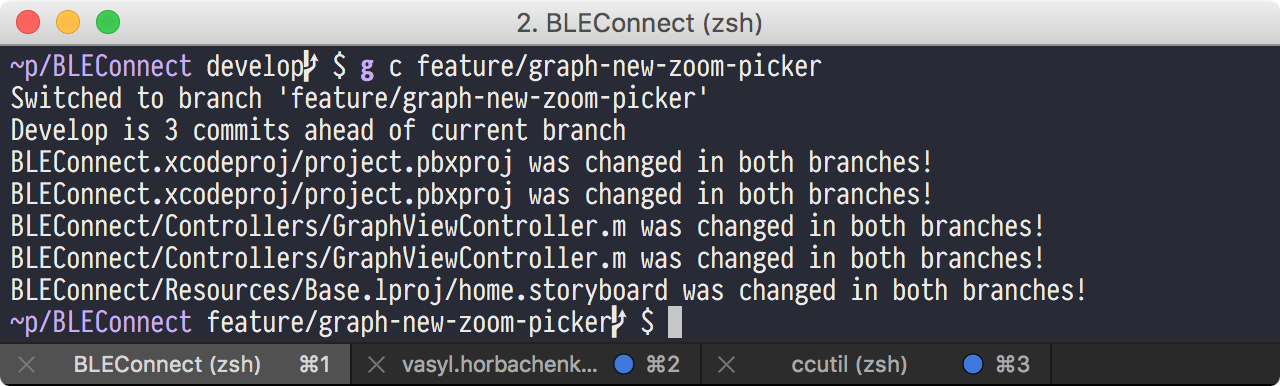
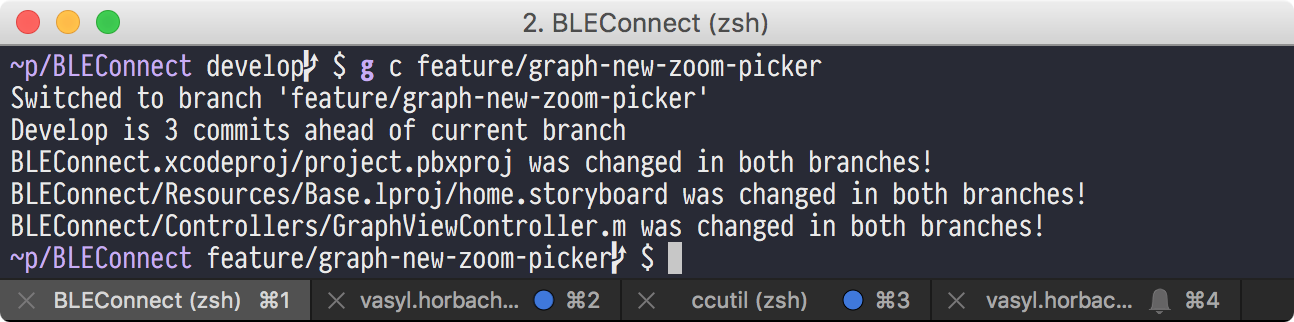
[beta] fixes in verbose, new screenshots, group and feature set on new reviews

diff --git a/ccutil/githelper.py b/ccutil/githelper.py
@@ -7,11 +7,12 @@ COMMIT_SEARCH_LIMIT = 50
 r = None
 
 def commit_change_list(commit):
-    result = []
+    result = {}
     output = subprocess.check_output(["git", "diff-tree", "--no-commit-id", "-r", str(commit), ])
     for line in output.splitlines():
         words = line.split()
-        result.append([words[-1], words[3]])
+        result[words[-1]] = words[3]
+
     return result
 
 def open_repo(path):
@@ -26,7 +27,7 @@ def feature_base(at_ref):
             return commit
 
 def feature_files_changed(ref):
-    result = []
+    result = {}
     base = feature_base(ref)
 
     if not base:
@@ -38,7 +39,7 @@ def feature_files_changed(ref):
             break
         else:
             verbose("Adding changes from {}", c)
-            result += commit_change_list(c)
+            result.update(commit_change_list(c))
 
     return result
 
@@ -50,23 +51,28 @@ def features_conflicts(ref1, ref2):
 
     if ref2 == r.branches["develop"]:
         ref1_base = feature_base(ref1)
-        ref2_changes = []
+        ref2_changes = {}
         for c in r.iter_commits(r.branches["develop"], max_count=COMMIT_SEARCH_LIMIT):
             if c == ref1_base:
                 break
             else:
                 verbose("Adding changes from {}", c)
-                ref2_changes += commit_change_list(c)
+                ref2_changes.update(commit_change_list(c))
     else:
         ref2_changes = feature_files_changed(ref2)
 
+    for path, hash in ref1_changes.items():
+        verbose("{:<10} changed {:<100} {:>6}", str(ref1)[:10], path, hash[:6])
+    for path, hash in ref2_changes.items():
+        verbose("{:<10} changed {:<100} {:>6}", str(ref2)[:10], path, hash[:6])
+
     conflicts = []
-    for (path1, hash1) in ref1_changes:
-        verbose("{:<6} changed {:<100} {:>6}", str(ref1)[:6], path1, hash1[:6])
-        for (path2, hash2) in ref2_changes:
-            verbose("{:<6} changed {:<100} {:>6}", str(ref2)[:6], path2, hash2[:6])
-            if path1 == path2 and hash1 != hash2:
+    for path1, hash1 in ref1_changes.items():
+        for path2, hash2 in ref2_changes.items():
+            if path1 == path2 and hash1 != hash2 and path1 not in conflicts:
                 conflicts.append(path1)
+            elif path1 == path2:
+                message("Path {} was changed in both branches with resulting in equal hashes!", path1)
 
     return conflicts
 

diff --git a/ccutil/utils.py b/ccutil/utils.py
@@ -21,6 +21,7 @@ update, up - ccollab helper:
     parser.add_argument("args", nargs="*", default=None)
     parser.add_argument("-b", default=None, help="branch to check conflicts against (instead of develop)")
     parser.add_argument("--browser", default=None, help="Browser application to use with CC")
+    parser.add_argument("--group", default=None, help="GUID of CC group to use")
     parser.add_argument("--reverts", default=False, action="store_true", help="Add reverted files to CC (used in manual variant of update)")
     parser.add_argument("--always-open-browser", action="store_true", default=False, help="Open browser even on updating existing CC")
     parser.add_argument("-a", action="store_true", default=False, help="append only mode - quietly fail when there's no review associated with the branch")
@@ -43,5 +44,5 @@ def output(msg, *_args, **_kwargs):
 
 def open_url_in_browser(url):
     if args.browser:
-        utils.message("Opening {}", url)
+        message("Opening {}", url)
         os.system("open -a {} {}".format(args.browser, url))

diff --git a/ccutil.py b/ccutil.py
@@ -55,7 +55,7 @@ def op_update():
             if args.reverts:
                 files = files + githelper.reverts_list()
         else:
-            files = [os.path.exists(path) and path or "" for (path, _) in githelper.feature_files_changed(r.head)]
+            files = [os.path.exists(path) and path or "" for path, _ in githelper.feature_files_changed(r.head).items()]
 
         id = db.get(r.head.ref)
         if args.a and not id:
@@ -65,7 +65,7 @@ def op_update():
         if not id:
             id = str(ccollab.create_new_review(files))
             db.set(r.head.ref, id)
-            ccollab.update_review_title(id, r.head.commit.message.strip())
+            ccollab.update_review(id, r.head.commit.message.strip(), args.group, "git: {}".format(str(r.head.ref)))
             did_create = True
         else:
             ccollab.append_to_review(id, files)

diff --git a/ccutil/ccollab.py b/ccutil/ccollab.py
@@ -52,5 +52,12 @@ def create_new_review(files):
 def append_to_review(id, files):
     call_ccollab("addchanges", id, *files)
 
-def update_review_title(id, title):
-    call_ccollab("admin", "review", "edit", id, "--title", title)
+def update_review(id, title, group, overview):
+    args = ["admin", "review", "edit", id,
+            "--title", title,
+            "--custom-field", "Feature=Unknown",
+            "--custom-field", "Overview={}".format(overview), ]
+    if group:
+        args += ["--group", group, ]
+
+    call_ccollab(*args)

diff --git a/addons/zsh_autocompletion/_ccutil.py b/addons/zsh_autocompletion/_ccutil.py
@@ -7,10 +7,11 @@ _ccutil() {
       '-b[branch]:branch:_get_branches' \
       '--browser[browser]:' \
       '--reverts[add reverts to manual update]:' \
+      '--group[ccuid group]:' \
       '--always-open-browser[always open browser]:' \
       '1:op:(c conflict r reverts up update)' \
-      '2:secop:(auto manual)' \
-      '*:args:_gnu_generic'
+      '2:secop:(auto manual id setid reset browse)' \
+      '*:args:_files'
 }
 
 _get_branches() {

diff --git a/addons/bash_autocompletion/_ccutil.py b/addons/bash_autocompletion/_ccutil.py
@@ -10,7 +10,7 @@ _ccutilpy_completion()
     fi
 
     if [[ ${prev} == "up" ]] ; then
-        COMPREPLY=('auto' 'manual')
+        COMPREPLY=('auto' 'manual' 'id' 'setid' 'reset' 'browse')
         return 0
     fi
 }
